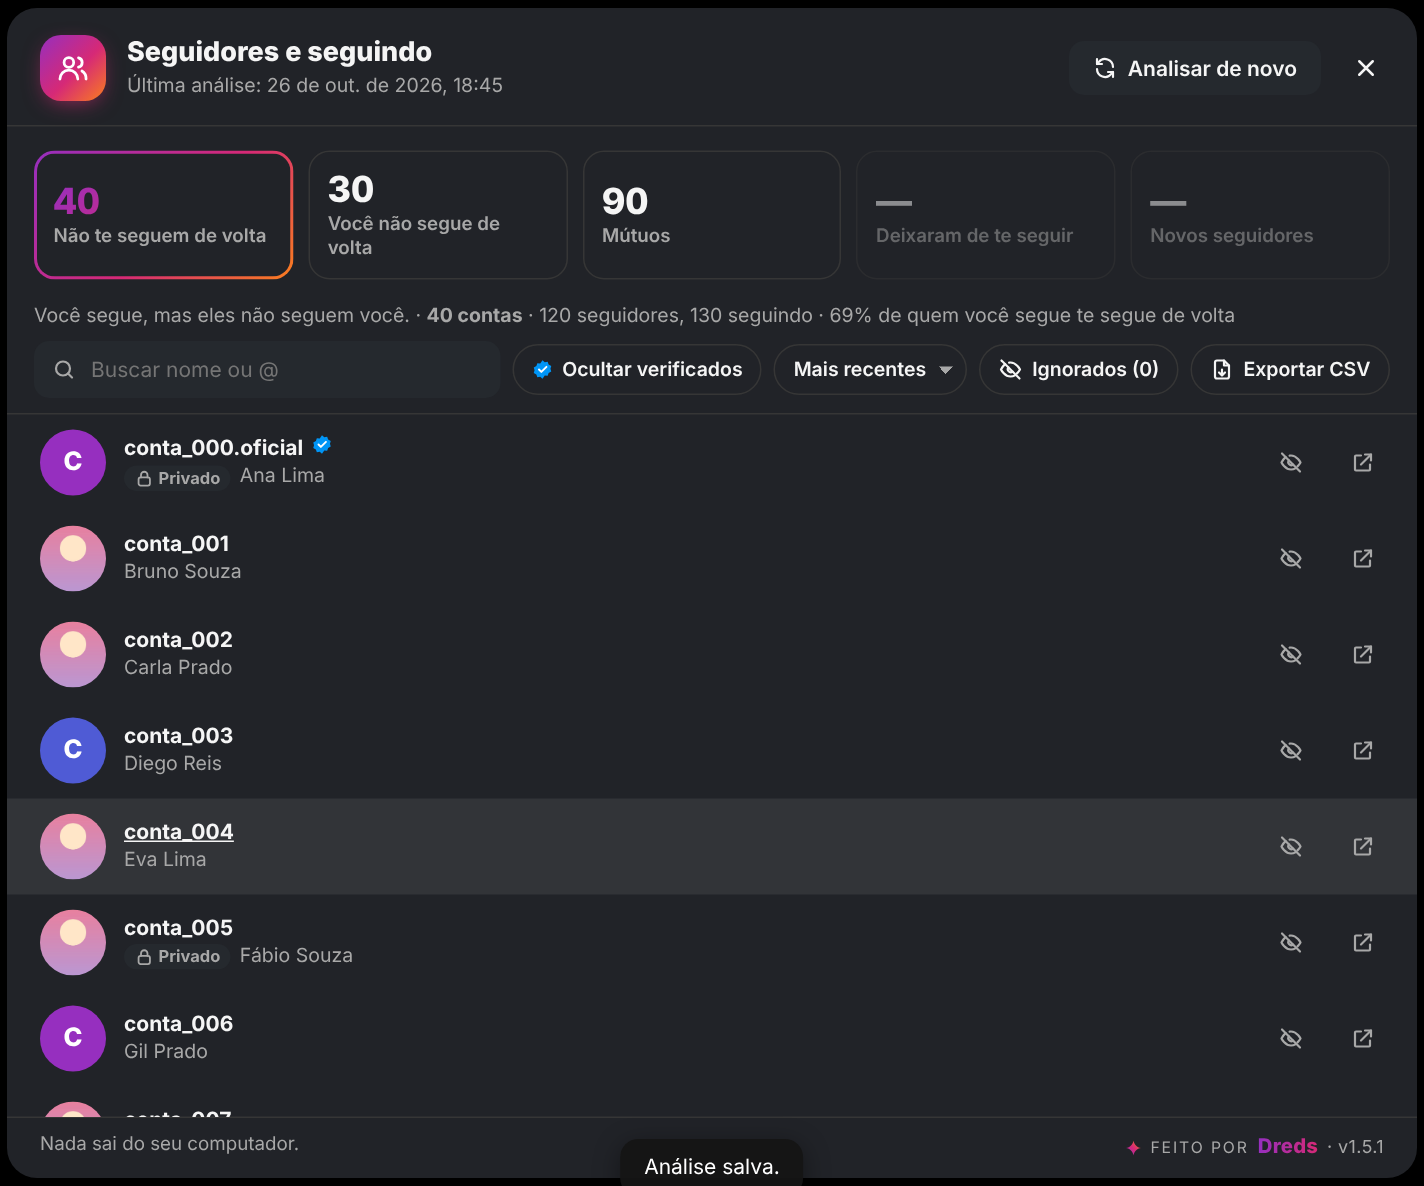
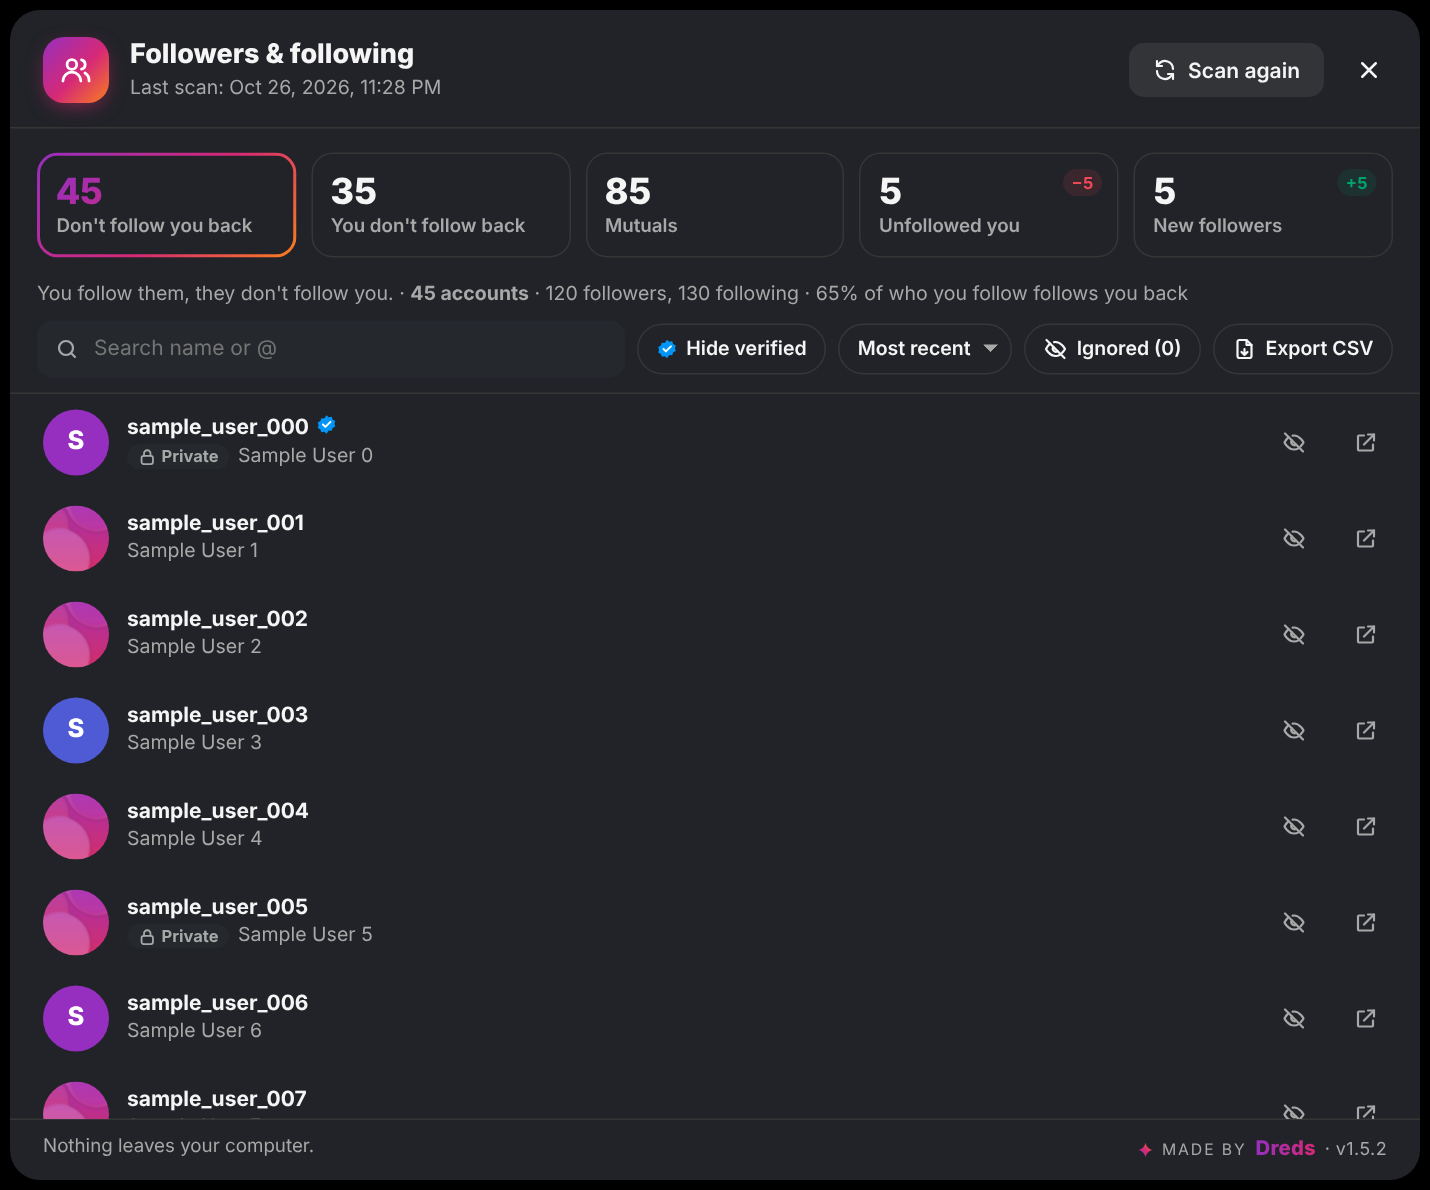
docs: update README and screenshots

diff --git a/README.md b/README.md
@@ -8,10 +8,10 @@
 Stories, posts and whole profiles at original resolution, videos with sound, plus a video player, Direct multi-select and a followers check, all inside Instagram.
 
 ![Manifest V3](https://img.shields.io/badge/Chrome-Manifest%20V3-4285F4?logo=googlechrome&logoColor=white)
-![Version](https://img.shields.io/badge/version-1.5.1-d62976)
+![Version](https://img.shields.io/badge/version-1.5.2-d62976)
 ![License](https://img.shields.io/badge/license-MIT-green)
 
-<img src="docs/salva-stories-menu.png" width="300" alt="Salva Stories settings menu inside Instagram: download folder, per-profile subfolder, max resolution, save-all button, hotkeys, ghost mode, followers tool and video player">
+<img src="docs/salva-stories-story-buttons.png" width="340" alt="An open Instagram story with the two Salva Stories buttons on its right side: save this story and save all stories from this profile, plus a gear that opens the settings">&nbsp;&nbsp;<img src="docs/salva-stories-menu.png" width="300" alt="Salva Stories settings menu inside Instagram: download folder, subfolder per profile, maximum video resolution, save-all button, keyboard shortcut, ghost mode, followers tool and video player">
 
 </div>
 
@@ -26,15 +26,30 @@ Stories, posts and whole profiles at original resolution, videos with sound, plu
 - **Videos with audio.** By default it saves the progressive MP4 (video + sound in one file). When the original is above 720p, it fetches the separate DASH video and audio tracks and **muxes them in the browser, with no re-encoding**. If that fails, it falls back to the 720p file.
 - **Ghost mode** (off by default): the "seen" request isn't sent, so viewing a story doesn't mark it as seen. A ghost badge shows when it's on, in stories and anywhere else on Instagram.
 
-**Profiles, videos and Direct**
+**Profiles**
 
-- **Download a profile.** A *Download profile* button on any profile saves its posts (photos, videos and every carousel item) into `perfil/fotos` and `perfil/videos`. It scrolls the grid and keeps the responses Instagram itself loads, at a calm pace (3–6 s per page), instead of calling private endpoints.
-- **Video player** on posts and reels, laid over Instagram's own `<video>`: play/pause, ±10 s, speed from 0.5× to 2×, volume and a download button.
-- **Direct multi-select.** Pick several conversations (or *All*, which scrolls the list to the end so Instagram loads every page) and mark them unread/read, pin, mute or delete in one go, one conversation at a time through Instagram's own menus, with a confirmation before deleting.
+<img src="docs/salva-stories-profile-download.png" width="720" alt="Download profile button next to Follow and Message on an Instagram profile, with its card open: how many posts, photos and videos checkboxes, destination folder and a Download button">
+
+- A **Download profile** button on any profile saves its posts (photos, videos and every carousel item) into `perfil/fotos` and `perfil/videos`. Choose how many posts and whether you want photos, videos or both.
+- It scrolls the grid and keeps the responses Instagram itself loads, at a calm pace (3–6 s per page), instead of calling private endpoints.
+
+**Video player**
+
+<img src="docs/salva-stories-video-player.png" width="380" alt="Salva Stories video player over an Instagram video: progress bar, pause, back and forward 10 seconds, time, speed menu open from 0.5x to 2x, sound and a download button">
+
+- Laid over Instagram's own `<video>` on posts and reels: play/pause, ±10 s, a seek bar, speed from 0.5× to 2×, volume and a download button.
+- A pause stays a pause: Instagram's feed tries to resume videos when you scroll, and the player holds them until you press play again (or tap the video yourself).
+
+**Direct**
+
+<img src="docs/salva-stories-direct-select.png" width="300" alt="Instagram Direct inbox in selection mode: four conversations checked and a bottom bar with All, Unread, Read, Pin, Mute and Delete">
+
+- Pick several conversations (or *All*, which scrolls the list to the end so Instagram loads every page) and mark them unread/read, pin, mute or delete in one go.
+- It works one conversation at a time through Instagram's own menus, with a single confirmation before deleting.
 
 **Followers and following**
 
-<img src="docs/salva-stories-followers.png" width="720" alt="Followers tool: who doesn't follow you back, who you don't follow back, mutuals, unfollowers and new followers, with search, filters and CSV export">
+<img src="docs/salva-stories-followers.png" width="720" alt="Followers tool with five counters (don't follow you back, you don't follow back, mutuals, unfollowed you, new followers), search, hide verified, sort, ignored list, CSV export and a list of placeholder accounts">
 
 - Who doesn't follow you back, who you don't follow back, mutuals, and, from the second check on, **who unfollowed you** and **new followers**. Search, hide verified, sort, ignore list and CSV export.
 - Safe by design: only Instagram's `friendships` lists, 1.5–3 s per page with a pause every 15 pages, a full stop on any block or checkpoint, and an incomplete list is never saved. There's **no mass unfollow**, because that's what gets accounts action-blocked. Results stay on your computer.
@@ -43,7 +58,8 @@ Stories, posts and whole profiles at original resolution, videos with sound, plu
 
 - **Settings inside Instagram**, not in a popup: a story-ring icon in Instagram's left sidebar (or a gear in the story viewer, or `Alt+S`, or the extension icon) opens the menu.
 - **Tidy file names:** `Downloads/Instagram Stories/{user}/stories/{user}_{YYYY-MM-DD_HH-MM-SS}_{id}.jpg|mp4`, using the date it was posted. Folder and per-profile subfolder are configurable.
-- **PT / EN / ES** with flag buttons, and **auto / light / dark** theme (auto follows Instagram).
+- **Report a bug** and **Check for updates** in the menu footer. *Report a bug* opens a GitHub issue already filled with the version and a short diagnostic (no username, no content). *Check for updates* reads this repo's latest release (also every 6 hours) and shows what changed, with a button that downloads the new zip.
+- **Auto / light / dark** theme (auto follows Instagram).
 
 ## Install
 
@@ -53,6 +69,34 @@ Stories, posts and whole profiles at original resolution, videos with sound, plu
 4. Reload instagram.com (already open tabs don't get the script until you reload).
 
 If you have other story downloaders installed, turn them off: their buttons sit on top of these.
+
+**Updating:** when a new version is out, the menu shows what changed and an **Update** button that downloads the zip. Extract it over the old folder: the extension notices the new files within a minute and reloads itself and the Instagram tabs. If you installed by dragging the zip, drag the new one instead. A guide page (PT / EN / ES) opens on first install with these steps.
+
+## Usage
+
+| Where | What to do |
+| --- | --- |
+| Story | Click the top button or press `D` to save it; the second button or `Shift+D` saves every story from that profile. |
+| Profile | Click **Download profile**, pick how many posts and the types, then **Download**. Keep the tab open until it finishes. |
+| Post or reel with video | Hover the video to show the player; the last button downloads it. |
+| Direct | Click the select button, check conversations (or **All**) and pick an action in the bottom bar. |
+| Followers | Open the menu → **Tools** → **Followers & following** → scan. Run it again later to see who unfollowed you. |
+| Settings | The story-ring icon in Instagram's sidebar, the gear in stories, `Alt+S` or the extension icon. |
+
+## Languages
+
+The interface comes in **Portuguese, English and Spanish**, switched with the flag buttons in the menu.
+
+## Known limitations
+
+- **Chrome (or another Chromium browser) on desktop, on instagram.com only.** No mobile app, no Firefox.
+- **It depends on how Instagram's web app works today.** When Instagram changes its responses or layout, a feature can stop until the extension is updated (see [When Instagram changes something](#when-instagram-changes-something)).
+- **Updates need one manual step.** Chrome doesn't let an extension installed from a folder replace its own files, so you extract the new zip yourself; only the Chrome Web Store can update fully on its own.
+- **"Save all" only covers the stories the viewer already loaded** for that profile.
+- **Private profiles** can only be downloaded or checked if you follow them.
+- **Big accounts are slow on purpose:** profile downloads and followers checks keep a human-like pace, and the followers check stops on the first block or checkpoint.
+- **Direct actions need Instagram in Portuguese, English or Spanish**, because they click Instagram's own menu items by their text.
+- The profile download folder is always named `perfil`, whatever the interface language.
 
 ## How it works
 
@@ -75,7 +119,7 @@ flowchart LR
 - **No extra traffic in the normal case.** `page.js` listens to the responses Instagram itself already downloads (the reels media GraphQL payload and inline JSON) and keeps the story items in memory. Only when an item isn't cached does it make a single `media/{id}/info` call.
 - **Finding the story on screen:** the biggest `<video>`/`<img>` in the center of the viewer, matched to its media id through React fiber. When the URL already has an id, that one wins, which covers the slide animation between stories.
 - **"Save all" uses only the reel the viewer already loaded.** It doesn't do batch API calls, since that's what triggers Instagram's automation checks.
-- **Minimal permissions:** `downloads`, `storage`, and host access only to Instagram's CDN (`*.cdninstagram.com`, `*.fbcdn.net`), needed to fetch DASH tracks. The service worker refuses any URL that isn't HTTPS on those hosts. No `cookies`, `tabs` or `webRequest`, and nothing is sent to any outside server.
+- **Minimal permissions:** `downloads`, `storage` and `alarms`; host access to Instagram's CDN (`*.cdninstagram.com`, `*.fbcdn.net`, needed to fetch DASH tracks), to `www.instagram.com` (to reload its tabs after an update) and to `api.github.com` (to read the latest release). The service worker refuses any download URL that isn't HTTPS on the CDN hosts. No `cookies`, `tabs` or `webRequest`, and nothing about you is sent anywhere: the only outside request is that read-only release check.
 - **`remux.js`** is a small dependency-free fMP4 muxer: it copies the `moov`/`trak` boxes, renumbers `track_ID` and interleaves `moof`/`mdat` fragments by their decode time.
 
 ### When Instagram changes something
@@ -85,12 +129,16 @@ Open the console on instagram.com and run `__salvaStoriesDebug()`. It shows how 
 - `items: 0` → the response format changed: look at `harvest()` and `WATCH` in `page.js`.
 - `current: null` → the viewer layout or fiber changed: look at `pkFromFiber()` and `centerMedia()`.
 
+*Report a bug* in the menu attaches the same information plus a short log. Each module also has its own helper with its state and the on-screen position of its controls: `__salvaStoriesMenuDebug()`, `__salvaStoriesProfileDebug()`, `__salvaStoriesPlayerDebug()`, `__salvaStoriesInboxDebug()` and `__salvaStoriesFollowsDebug()`.
+
 ## Tests
 
 End-to-end in Chromium with the real extension loaded, against a simulated instagram.com and CDN. Setup is in [`tests/README.md`](tests/README.md).
 
 - `e2e.mjs`, stories: photo at the largest candidate with the right name, 1080p DASH video muxed with audio (checked with `ffprobe`), video without sound, `Shift+D` saving three, max-resolution off, ghost mode blocking only when on, and the settings menu.
-- `e2e-v15.mjs`, everything else, in light and dark: ghost badge outside stories, a 30-post profile with carousels saved as 34 files in the right folders, the player (pause, ±10 s, 2×, sound, volume, download), Direct (3 marked unread, 2 deleted after the confirmation) and two followers checks with unfollowers and new followers. The screenshots on this page come from that run.
+- `e2e-v15.mjs`, everything else, in light and dark: ghost badge outside stories, a 30-post profile with carousels saved as 34 files in the right folders, the player (pause that survives the page trying to resume it, ±10 s, 2×, sound, volume, download), Direct (all 40 chats selected, 2 marked unread, 2 deleted after one confirmation), two followers checks with unfollowers and new followers, and the update notice and bug report.
+
+The screenshots on this page are the real extension (v1.5.2) running on that simulated Instagram, with placeholder accounts and generated images.
 
 ## Disclaimer
 
